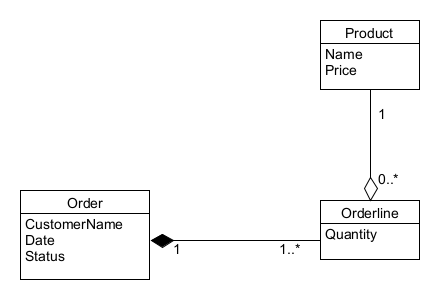
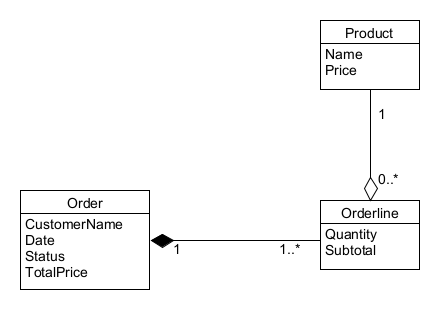
Added documentation of model

diff --git a/README.md b/README.md
@@ -46,7 +46,18 @@ To support the use cases, a single controller for handling orders is implemented
 ![Business Layer][businesslayer]
 
 ### Model
-The domain model represents the data used to operate the system
+The data needed for operating the system is represented by three model classes:
+
+**Product Class**:  
+The Product class represents a type of product that can be purchased in the system. Each product has a name and a price. 
+
+**Order Class**:  
+The Order class represents a customer order for one or more products. Each order has the name of an associated customer, and a timestamp of when the order was placed. It also contains information about the state the order currently have. An Order can have one or more OrderLines associated with it. The total price for the order is calculated by adding the subtotal from all orderlines.
+
+**OrderLine Class**:  
+The OrderLine class represents a single line item in an Order. It associates a product with a quantity that the customer has ordered. An OrderLine has a reference to the Product it represents and the quantity ordered. The subtotal price is calculated by multiplying the quantity by the price of the associated product.
+
+The domain model allows the system to represent the relationship between these three classes. The OrderLine class connects the Product and Order classes and allows for the creation of multiple lines within an order. The Product class provides information about the products available, while the Order class tracks the customer's order and payment details.
 
 ![Domain Model][domainmodel]
 
